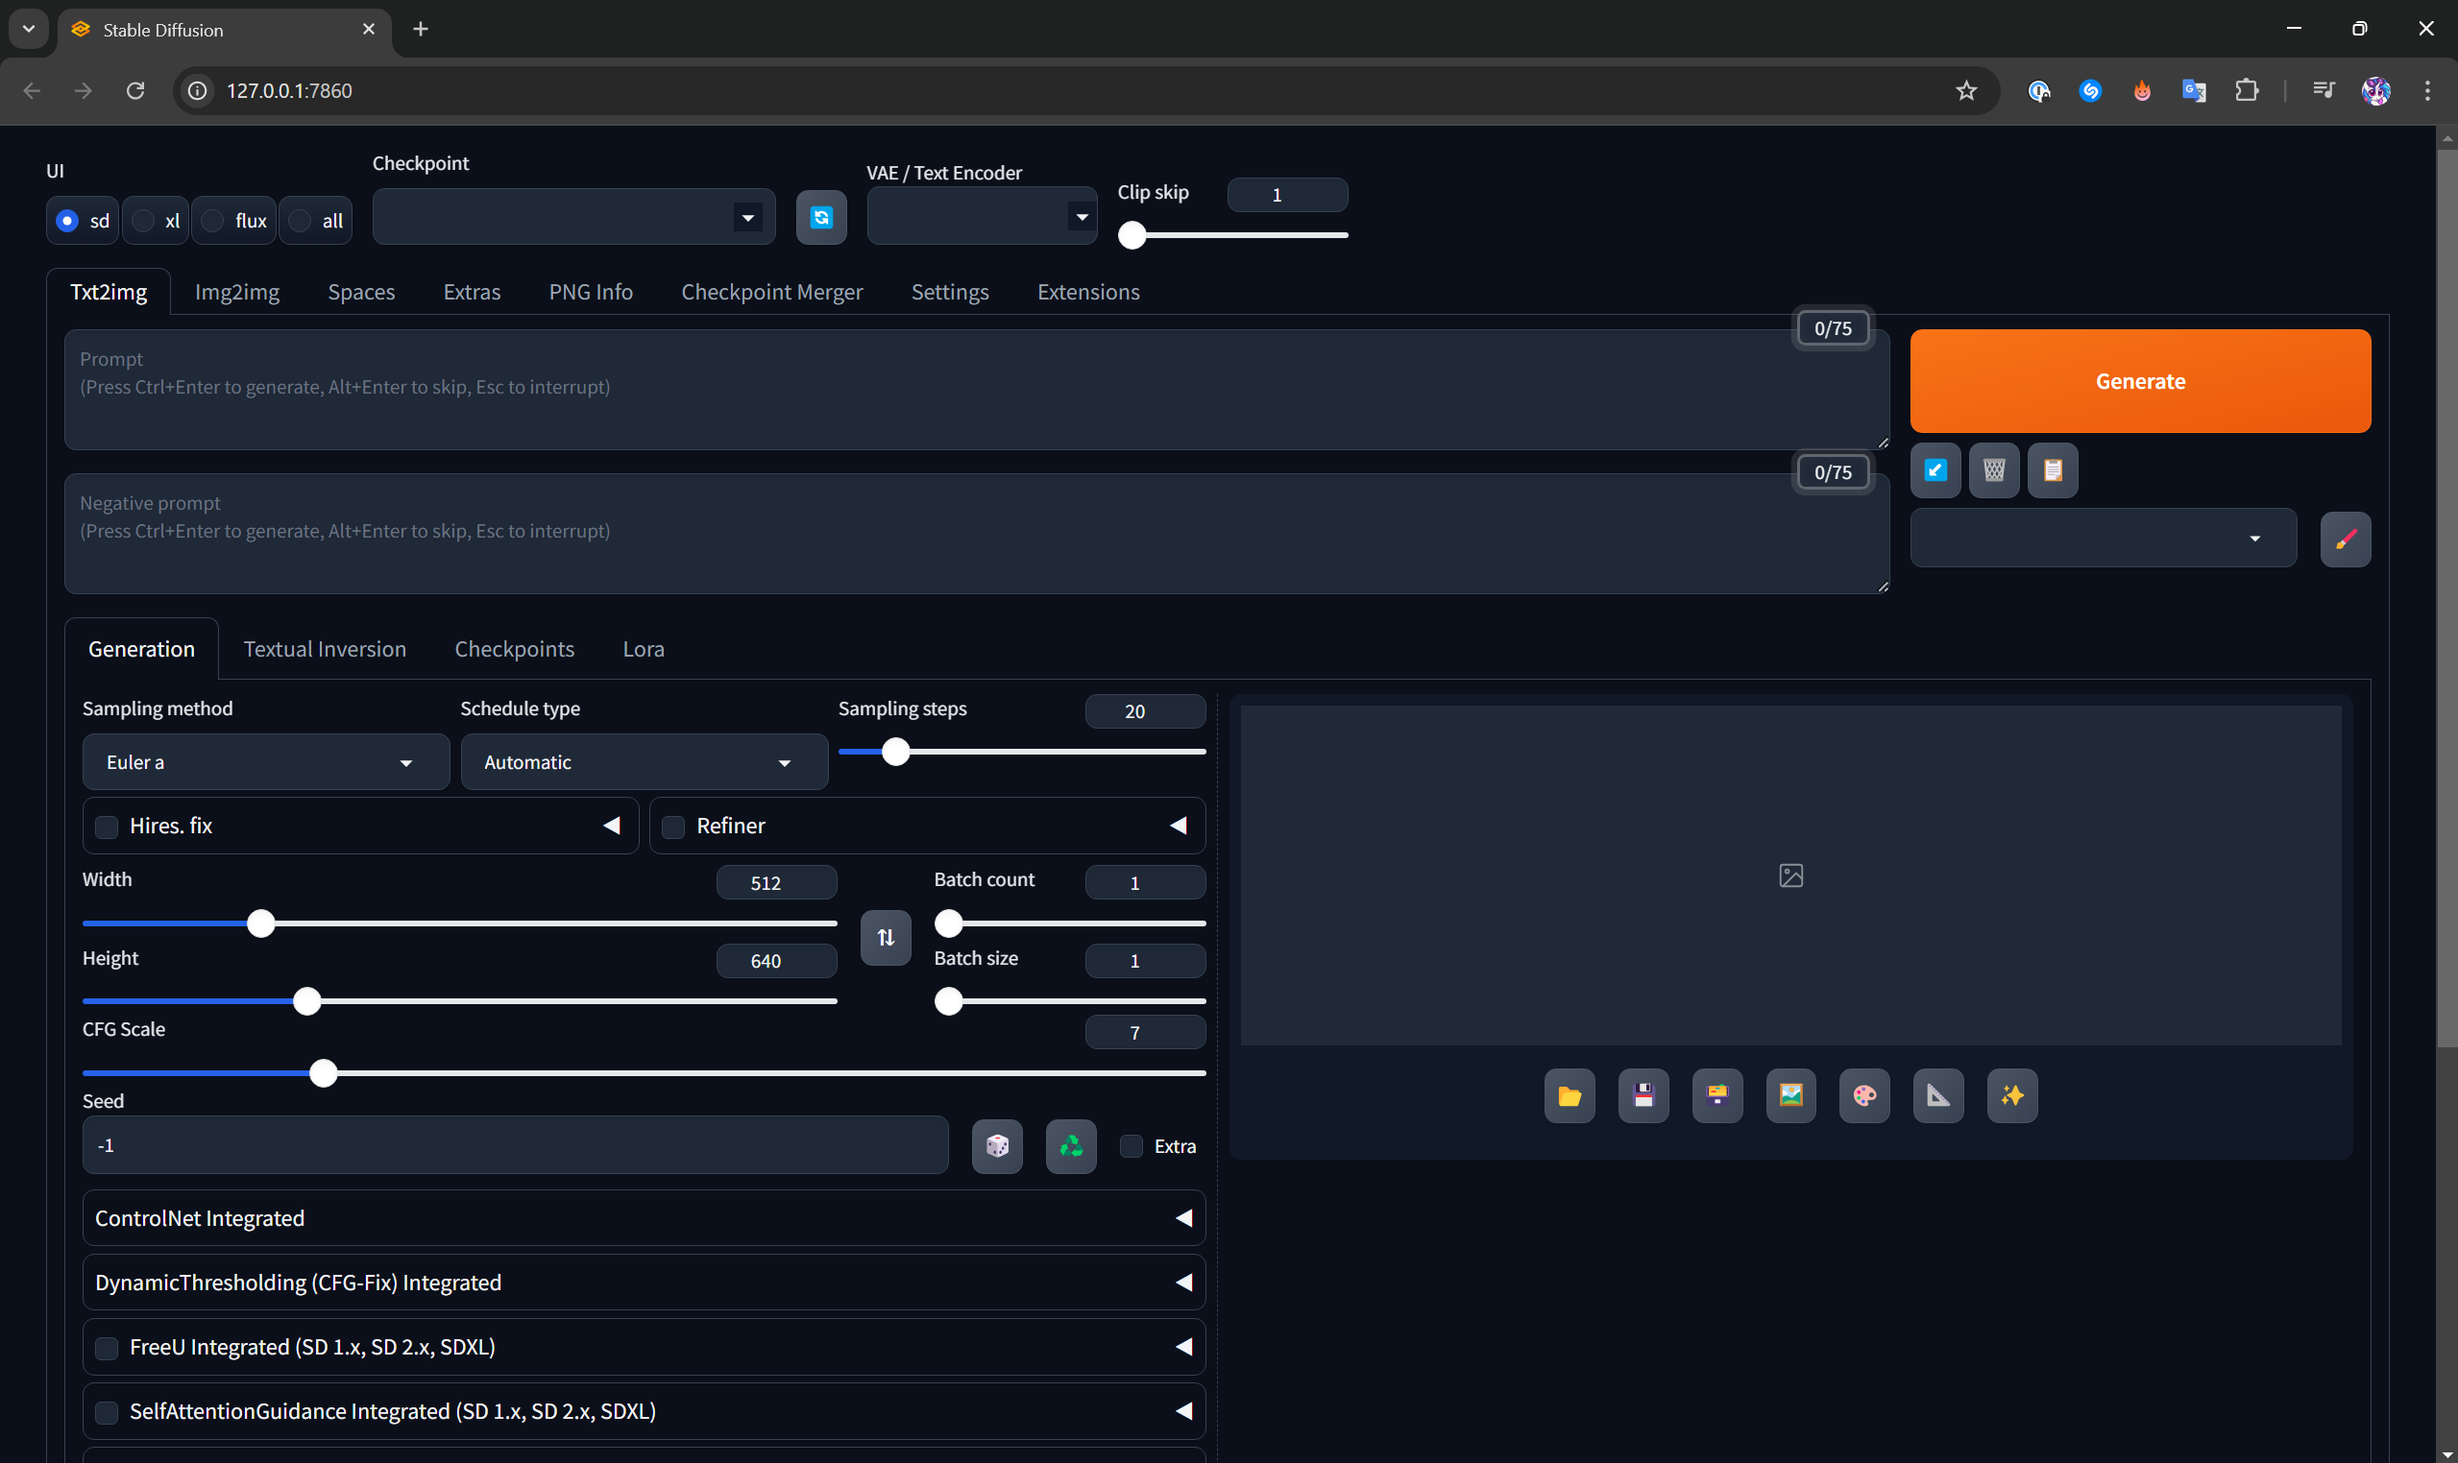
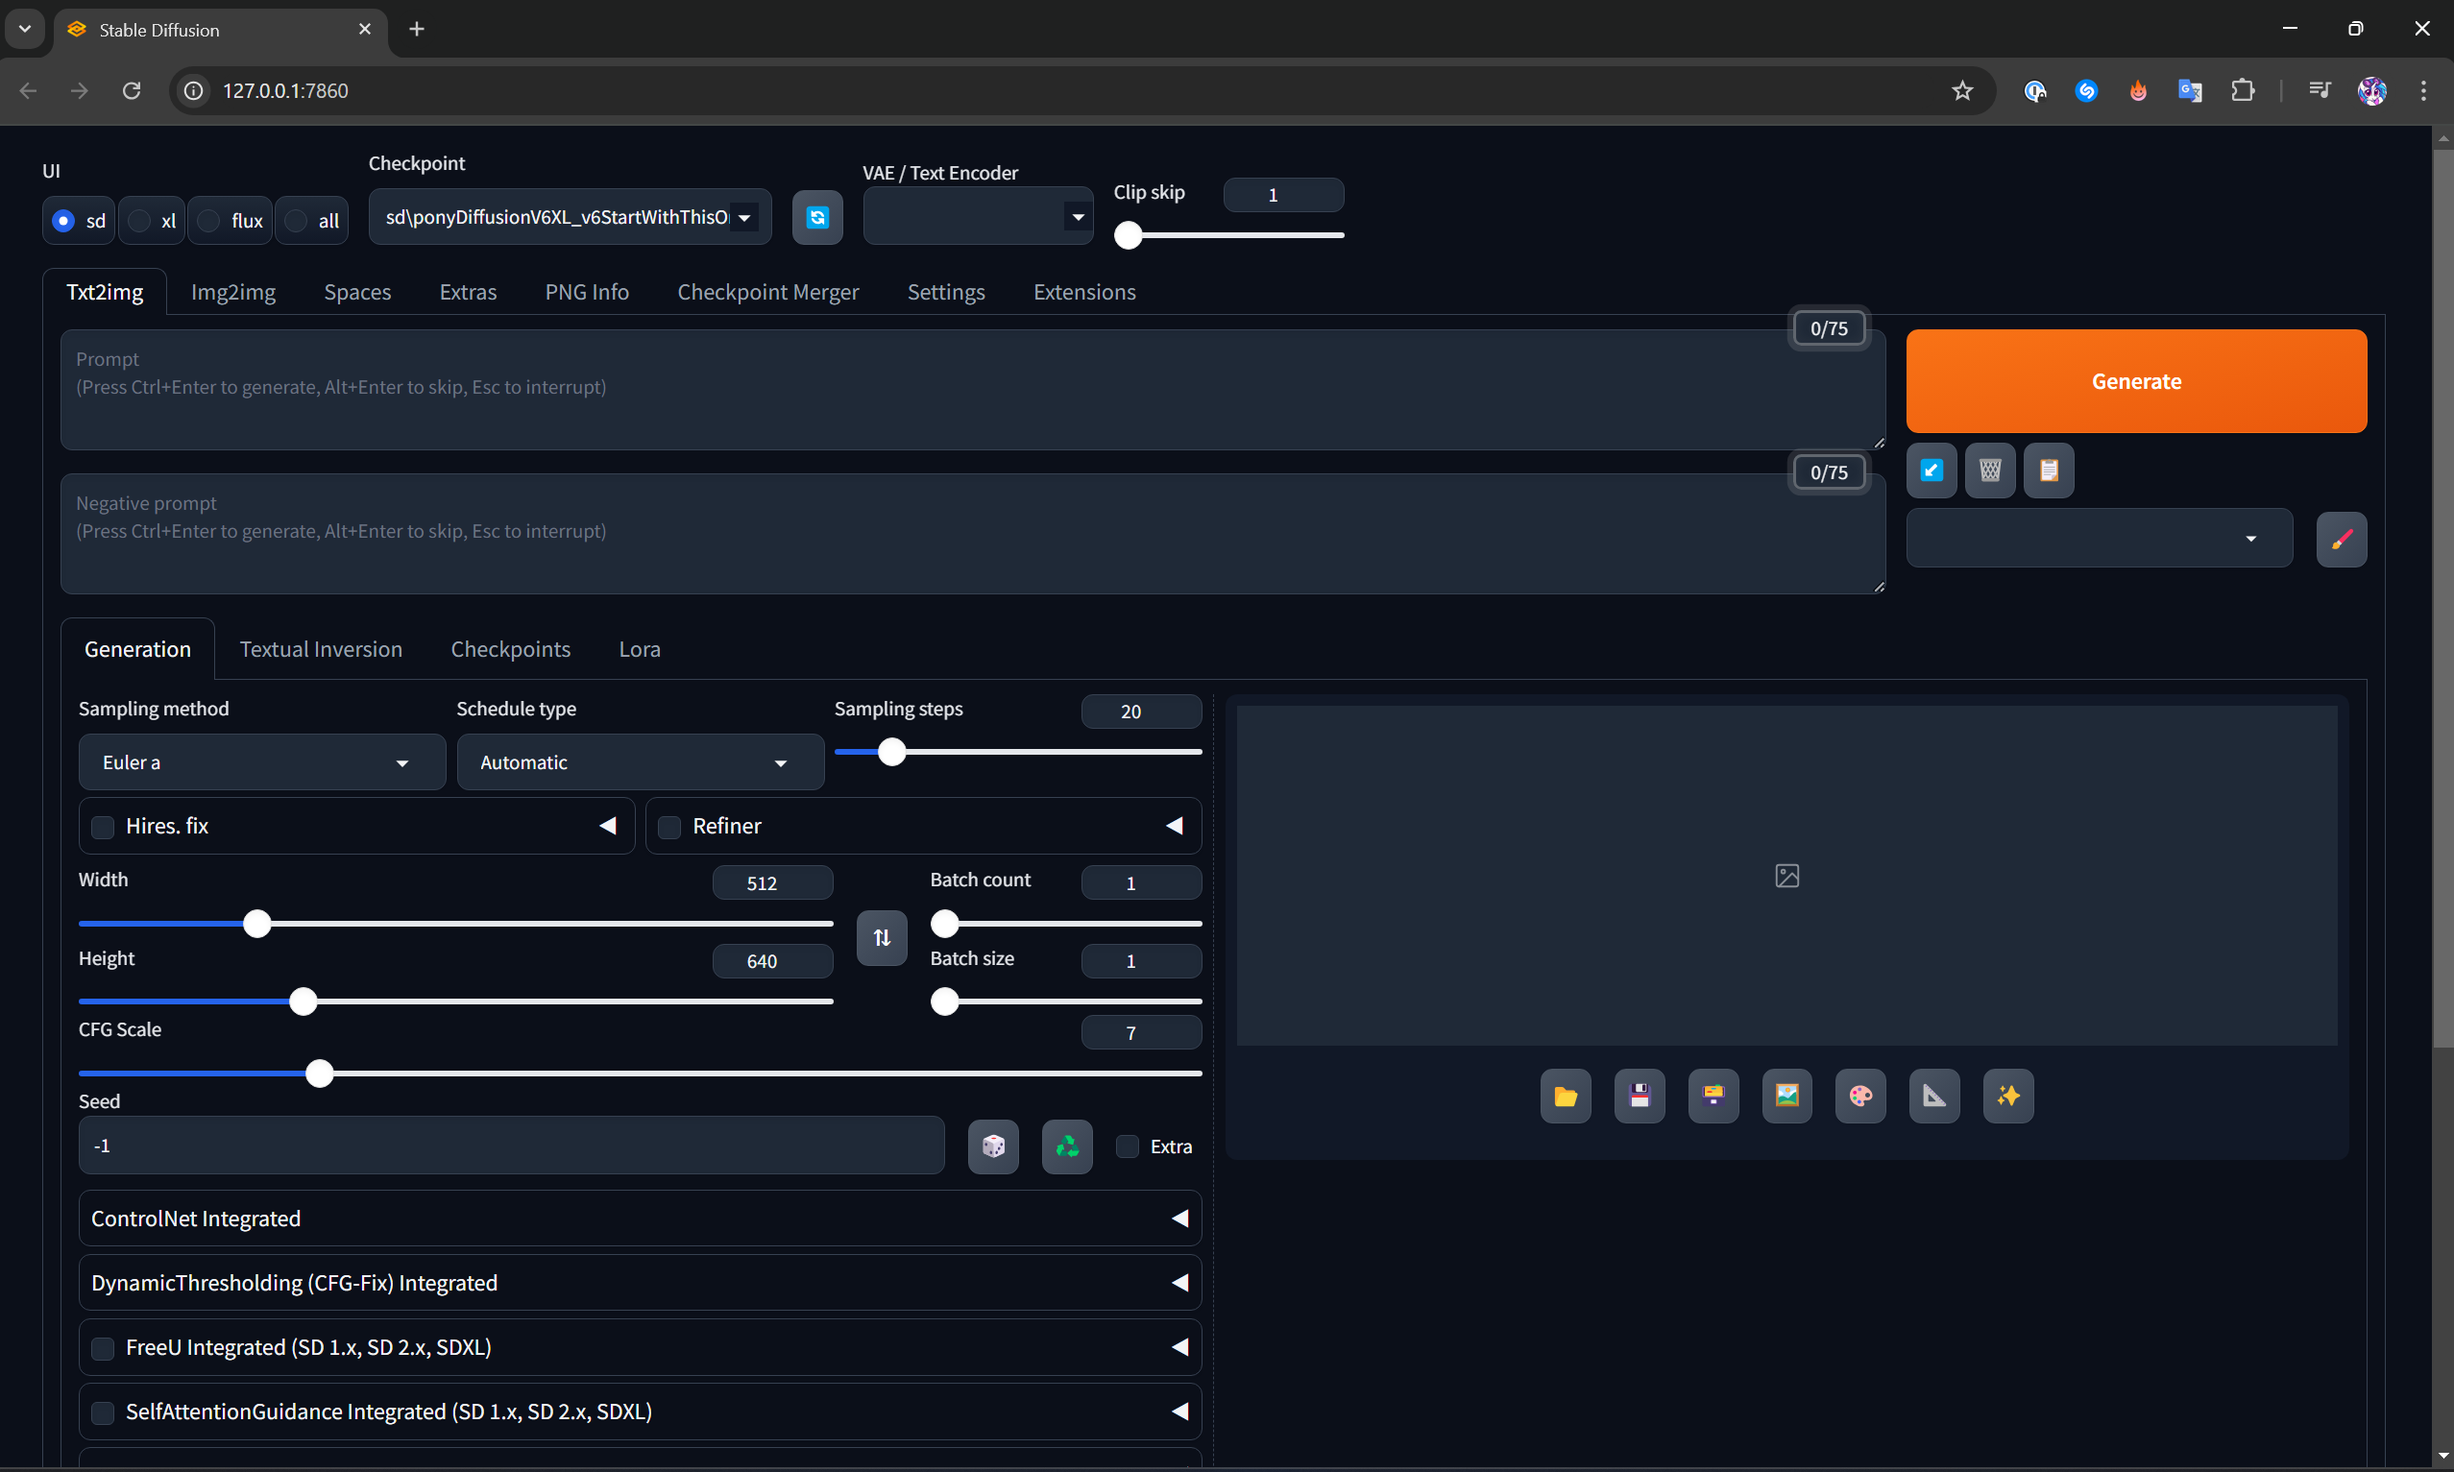
Start prompting

diff --git a/src/basics/text-to-image.md b/src/basics/text-to-image.md
@@ -36,6 +36,44 @@ If a page doesn't appear make sure there are no `error`s in Forge's logs in Stab
 Running on local URL:  http://127.0.0.1:7860
 ```
 
-You can force-open the web page by clicking on the button "Open Web UI" in StabilityMatrix.
+You can force-open the web page by clicking on the button "Open Web UI" in StabilityMatrix or by pasting http://127.0.0.1:7860 into your browser's address bar.
 
 ![](/basics/text-to-image/sm-open-web-ui.png){.figure .width75}
+
+## Initial Model Config
+
+Go to Forge web page and make sure the "Checkpoint" is set to `sd\ponyDiffusionV6XL_v6StartWithThisOne.safetensors`. It should be already selected by default, because it's the only AI model you have if you followed the [Software](./software) installation guide.
+
+Set "VAE / Text Encoder" to `sdxl_vae.safetensors`. If you don't see it in the dropdown list, then you [didn't download it](./software#pony-diffusion-v6-xl), make sure you import this file in StabilityMatrix.
+
+The value of "Clip skip" must be set to 2 according to [Pony Diffusion documentation][pd-docs]. Note that different AI models may require different values of "Clip skip". You should always check the model's documentation on Civitai (this is where we got Pony Diffusion from) or other resource where it was downloaded from. If it doesn't mention anything about "Clip skip", then you should keep it set to 1.
+
+::: danger IMPORTANT
+
+Configuring proper "Clip skip" is super important! If it's misconfigured, you may get garbage image results! It should be the first thing to check if you get bad image quality.
+
+:::
+
+We'll explain what "Clip skip" is exactly in detail later in the guide. For now, you should have the inputs at the top configured as on the screenshot below.
+
+![](/basics/text-to-image/forge-pdxl-config.png){.figure}
+
+::: details Why don't we select the `xl` button if we are using SDXL?
+
+The buttons `sd`, `xl`, `flux`, `all` only change the configuration parameters visible to you and their default values. For some reason, `xl` doesn't give you a "Clip skip" regulator. Anyhow, selecting `xl` isn't required for SDXL models, since it only slightly changes the UI appearance while removing the important "Clip skip" config.
+
+:::
+
+### Prompting
+
+Now, let's try to see where we are already. Let's start writing the prompt for our Twilight Sparkle image into the prompt at the top called just "Prompt" (we'll leave the "Negative prompt" empty for now).
+
+According to [Pony Diffusion docs][pd-docs], you need to paste this line at the start of the prompt to get images of top quality:
+
+```
+score_9, score_8_up, score_7_up, score_6_up, score_5_up, score_4_up
+```
+
+The reason why it's required is rather complicated, TLDR is that it's due to a bug found during Pony Diffusion V6 XL training, at which point it was too late to fix it, since it would be too expensive to restart the training.
+
+[pd-docs]: https://civitai.com/models/257749/pony-diffusion-v6-xl
